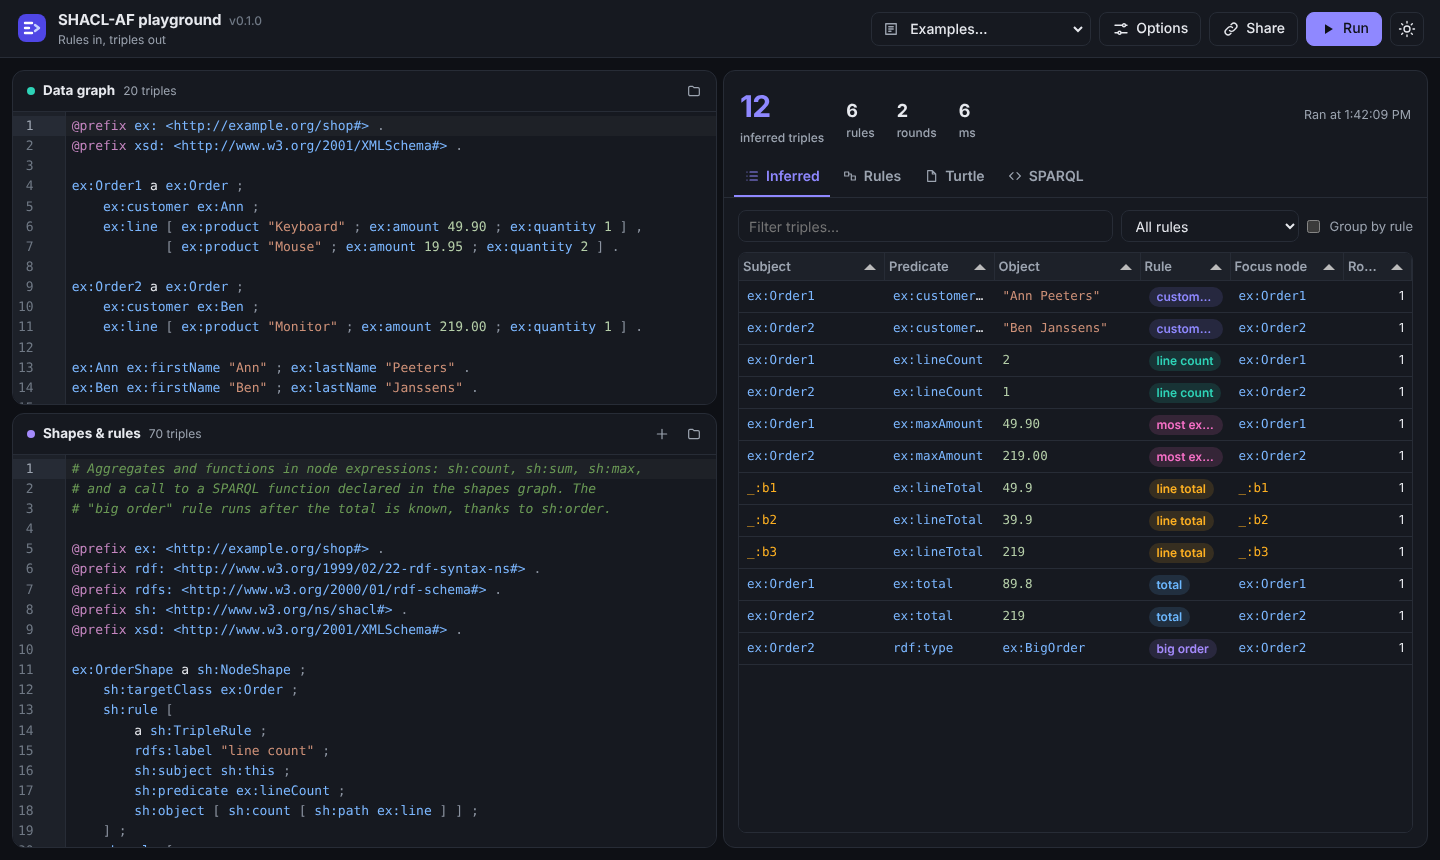
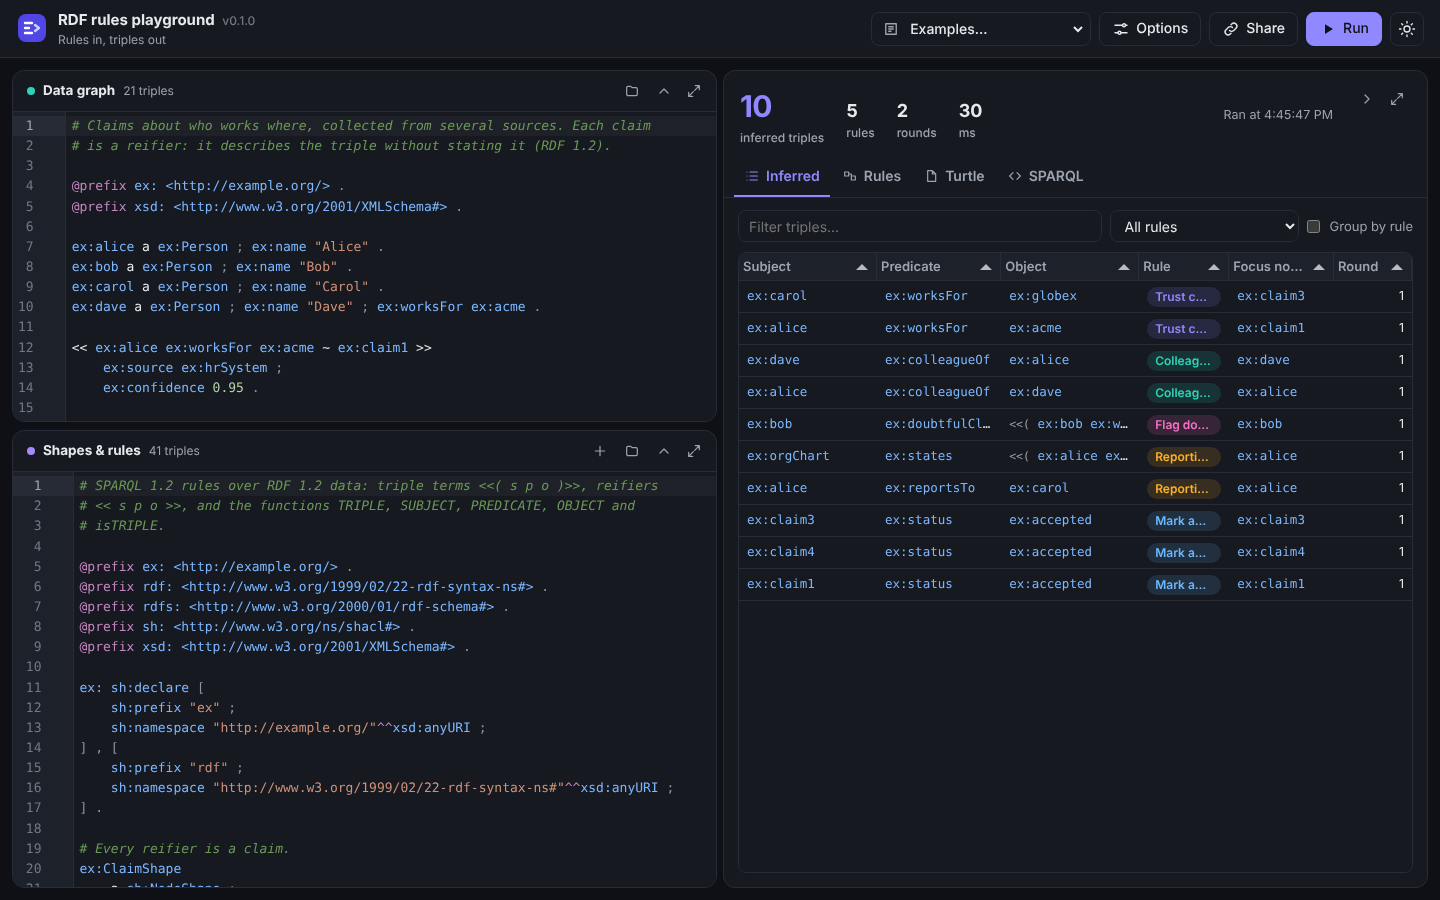
refactor: rename to rdf-rules-playground
Matches the repository name: crate, binary, Docker image, environment
variables (RDF_RULES_PLAYGROUND_*) and the shapes graph name
<urn:x-rdf-rules-playground:shapes-graph>. Refreshes the screenshots.

diff --git a/assets/app/index.html b/assets/app/index.html
@@ -4,7 +4,7 @@
     <meta charset="utf-8" />
     <meta name="viewport" content="width=device-width, initial-scale=1" />
     <meta name="color-scheme" content="light dark" />
-    <title>SHACL-AF playground</title>
+    <title>RDF rules playground</title>
     <link rel="icon" href="/assets/app/favicon.svg" type="image/svg+xml" />
     <link rel="stylesheet" href="/assets/vendor/tabulator/tabulator.min.css" />
     <link rel="stylesheet" href="/assets/vendor/matgui/matgui.min.css" />
@@ -15,7 +15,7 @@
       <div class="brand">
         <img class="logo" src="/assets/app/favicon.svg" alt="" />
         <div class="brand-text">
-          <span class="brand-name">SHACL-AF playground <span id="version" class="version"></span></span>
+          <span class="brand-name">RDF rules playground <span id="version" class="version"></span></span>
           <span class="brand-sub hide-mobile">Rules in, triples out</span>
         </div>
       </div>
@@ -194,7 +194,7 @@
         </div>
 
         <div class="tab-body hidden" id="tab-sparql">
-          <p class="hint">Query the data with everything inferred. The shapes graph is the named graph <code>&lt;urn:x-shacl-af-playground:shapes-graph&gt;</code>. Each run gets a fresh endpoint.</p>
+          <p class="hint">Query the data with everything inferred. The shapes graph is the named graph <code>&lt;urn:x-rdf-rules-playground:shapes-graph&gt;</code>. Each run gets a fresh endpoint.</p>
           <div id="matgui" class="matgui-host"></div>
         </div>
       </section>

diff --git a/assets/app/app.js b/assets/app/app.js
@@ -1,13 +1,13 @@
-// shacl-af-playground: the browser side. Two Turtle editors (data, and
+// rdf-rules-playground: the browser side. Two Turtle editors (data, and
 // shapes with rules), a run against /api/infer, and four views of the
 // result: inferred triples, rules, Turtle, and SPARQL through MatGUI.
 (function () {
   "use strict";
 
   const $ = (id) => document.getElementById(id);
-  const STORE_KEY = "shacl-af-playground";
-  const THEME_KEY = "shacl-af-playground-theme";
-  const LAYOUT_KEY = "shacl-af-playground-layout";
+  const STORE_KEY = "rdf-rules-playground";
+  const THEME_KEY = "rdf-rules-playground-theme";
+  const LAYOUT_KEY = "rdf-rules-playground-layout";
   const WELL_KNOWN = [
     ["rdf", "http://www.w3.org/1999/02/22-rdf-syntax-ns#"],
     ["rdfs", "http://www.w3.org/2000/01/rdf-schema#"],

diff --git a/assets/app/editor.js b/assets/app/editor.js
@@ -1,4 +1,4 @@
-// shacl-af-playground: Turtle editors on CodeMirror 6 (bundled as the
+// rdf-rules-playground: Turtle editors on CodeMirror 6 (bundled as the
 // global ShaclCodeMirror, see assets/vendor/codemirror/NOTICE.md).
 (function () {
   "use strict";

diff --git a/assets/app/styles.css b/assets/app/styles.css
@@ -1,4 +1,4 @@
-/* shacl-af-playground */
+/* rdf-rules-playground */
 
 :root {
   --bg: #f6f7f9;

diff --git a/src/cli.rs b/src/cli.rs
@@ -6,7 +6,7 @@ use std::path::PathBuf;
 
 #[derive(Debug, Parser)]
 #[command(
-    name = "shacl-af-playground",
+    name = "rdf-rules-playground",
     version,
     about = "Run SHACL Advanced Features rules (sh:TripleRule, sh:SPARQLRule) on RDF data",
     long_about = "Run SHACL Advanced Features rules (sh:TripleRule, sh:SPARQLRule) on RDF data.\n\n\
@@ -87,28 +87,28 @@ pub struct ServeArgs {
         long = "max-editor-triples",
         value_name = "N",
         default_value_t = 20_000,
-        env = "SHACL_AF_PLAYGROUND_MAX_EDITOR_TRIPLES"
+        env = "RDF_RULES_PLAYGROUND_MAX_EDITOR_TRIPLES"
     )]
     pub max_editor_triples: usize,
     /// Address to listen on.
-    #[arg(long, default_value = "127.0.0.1:0", env = "SHACL_AF_PLAYGROUND_BIND")]
+    #[arg(long, default_value = "127.0.0.1:0", env = "RDF_RULES_PLAYGROUND_BIND")]
     pub bind: String,
     /// Do not open the browser.
     #[arg(long = "no-open")]
     pub no_open: bool,
     /// Serve the playground as a public website: caps input size, run time
     /// and rounds per request, and never opens a browser.
-    #[arg(long, env = "SHACL_AF_PLAYGROUND_PUBLIC")]
+    #[arg(long, env = "RDF_RULES_PLAYGROUND_PUBLIC")]
     pub public: bool,
     /// In public mode: most bytes of Turtle per editor.
-    #[arg(long = "max-input-bytes", value_name = "BYTES", default_value_t = 2 * 1024 * 1024, env = "SHACL_AF_PLAYGROUND_MAX_INPUT_BYTES")]
+    #[arg(long = "max-input-bytes", value_name = "BYTES", default_value_t = 2 * 1024 * 1024, env = "RDF_RULES_PLAYGROUND_MAX_INPUT_BYTES")]
     pub max_input_bytes: usize,
     /// In public mode: most triples per editor, and most inferred triples.
     #[arg(
         long = "max-triples",
         value_name = "N",
         default_value_t = 50_000,
-        env = "SHACL_AF_PLAYGROUND_MAX_TRIPLES"
+        env = "RDF_RULES_PLAYGROUND_MAX_TRIPLES"
     )]
     pub max_triples: usize,
     /// In public mode: most seconds one run may take.
@@ -116,7 +116,7 @@ pub struct ServeArgs {
         long = "max-seconds",
         value_name = "S",
         default_value_t = 20,
-        env = "SHACL_AF_PLAYGROUND_MAX_SECONDS"
+        env = "RDF_RULES_PLAYGROUND_MAX_SECONDS"
     )]
     pub max_seconds: u64,
 }

diff --git a/src/main.rs b/src/main.rs
@@ -1,9 +1,9 @@
 use clap::Parser;
 use oxrdf::Graph;
-use shacl_af_playground::cli::{Cli, Command, InferArgs, OutputFormat};
-use shacl_af_playground::input::{load_files, merge_prefixes};
-use shacl_af_playground::rules::{self, Options};
-use shacl_af_playground::{output, web};
+use rdf_rules_playground::cli::{Cli, Command, InferArgs, OutputFormat};
+use rdf_rules_playground::input::{load_files, merge_prefixes};
+use rdf_rules_playground::rules::{self, Options};
+use rdf_rules_playground::{output, web};
 use std::process::ExitCode;
 
 fn main() -> ExitCode {
@@ -12,7 +12,7 @@ fn main() -> ExitCode {
         Some(Command::Infer(args)) => infer(args),
         Some(Command::Serve(args)) => web::serve(args),
         // No command: `serve` with its defaults, environment variables included.
-        None => match Cli::parse_from(["shacl-af-playground", "serve"]).command {
+        None => match Cli::parse_from(["rdf-rules-playground", "serve"]).command {
             Some(Command::Serve(args)) => web::serve(args),
             _ => unreachable!("parsed as serve"),
         },
@@ -20,7 +20,7 @@ fn main() -> ExitCode {
     match result {
         Ok(code) => code,
         Err(err) => {
-            eprintln!("shacl-af-playground: error: {err:#}");
+            eprintln!("rdf-rules-playground: error: {err:#}");
             ExitCode::from(2)
         }
     }

diff --git a/tests/web.rs b/tests/web.rs
@@ -1,6 +1,6 @@
 //! The playground's HTTP API, driven over a real socket.
 
-use shacl_af_playground::web::{AppState, Limits, api};
+use rdf_rules_playground::web::{AppState, Limits, api};
 use std::io::{Read, Write};
 use std::net::{SocketAddr, TcpStream};
 use std::time::Duration;
@@ -119,7 +119,7 @@ fn infers_and_serves_the_result() {
     assert!(body.contains("\"value\":\"4\""), "{body}");
 
     // ...including the shapes graph as a named graph
-    let ask = "ASK { GRAPH <urn:x-shacl-af-playground:shapes-graph> { ?s a <http://www.w3.org/ns/shacl#SPARQLRule> } }";
+    let ask = "ASK { GRAPH <urn:x-rdf-rules-playground:shapes-graph> { ?s a <http://www.w3.org/ns/shacl#SPARQLRule> } }";
     let (status, _, body) = request(
         addr,
         "POST",
@@ -172,7 +172,7 @@ fn serves_the_page_and_examples() {
     let addr = start(None);
     let (status, _, body) = request(addr, "GET", "/", &[], "");
     assert_eq!(status, 200);
-    assert!(body.contains("SHACL-AF playground"));
+    assert!(body.contains("RDF rules playground"));
     let (status, _, body) = request(addr, "GET", "/api/examples", &[], "");
     assert_eq!(status, 200);
     let examples: serde_json::Value = serde_json::from_str(&body).unwrap();

diff --git a/src/web/mod.rs b/src/web/mod.rs
@@ -275,7 +275,7 @@ fn startup_data(
     Ok((output::turtle(&g, &prefixes), None))
 }
 
-/// `shacl-af-playground serve`: start the server and block until ctrl-c.
+/// `rdf-rules-playground serve`: start the server and block until ctrl-c.
 pub fn serve(args: ServeArgs) -> Result<ExitCode> {
     let (data_text, big_data) = startup_data(&args.data, args.format, args.max_editor_triples)?;
     let shapes = args.shapes.as_deref().map(shapes_text).transpose()?;
@@ -317,7 +317,7 @@ pub fn serve(args: ServeArgs) -> Result<ExitCode> {
                 l.max_iterations
             );
         }
-        eprintln!("shacl-af-playground listening on {url}");
+        eprintln!("rdf-rules-playground listening on {url}");
         if !args.no_open
             && !args.public
             && let Err(e) = webbrowser::open(&url)

diff --git a/tests/rules.rs b/tests/rules.rs
@@ -1,6 +1,6 @@
 use oxrdf::{Graph, Literal, NamedNode, Term, Triple};
-use shacl_af_playground::input::parse_turtle;
-use shacl_af_playground::rules::{Options, Outcome, infer};
+use rdf_rules_playground::input::parse_turtle;
+use rdf_rules_playground::rules::{Options, Outcome, infer};
 
 fn load(text: &str) -> Graph {
     parse_turtle(text, None).expect("valid Turtle").0
@@ -179,7 +179,7 @@ fn sparql_12_rules_over_triple_terms() {
         &ex("status"),
         iri(&ex("accepted"))
     ));
-    let turtle = shacl_af_playground::output::turtle(
+    let turtle = rdf_rules_playground::output::turtle(
         &out.inferred.iter().map(|i| i.triple.clone()).collect(),
         &[("ex".into(), ex(""))],
     );

diff --git a/scripts/third_party_notices.py b/scripts/third_party_notices.py
@@ -99,7 +99,7 @@ def table(rows):
 def main():
     js = npm(sys.argv[1:])
     print("# Third-party notices\n")
-    print("shacl-af-playground is licensed under Apache-2.0 (see LICENSE). It includes")
+    print("rdf-rules-playground is licensed under Apache-2.0 (see LICENSE). It includes")
     print("the following third-party software, each under its own license. Where a")
     print("package offers a choice of licenses, it is used under any one of them. The")
     print("license texts are at the end of this file.\n")

diff --git a/src/rules/sparql.rs b/src/rules/sparql.rs
@@ -12,7 +12,7 @@ use std::collections::HashMap;
 
 /// The name `$shapesGraph` is bound to. The shapes are queryable as this
 /// named graph; the data graph is the default graph.
-pub const SHAPES_GRAPH: &str = "urn:x-shacl-af-playground:shapes-graph";
+pub const SHAPES_GRAPH: &str = "urn:x-rdf-rules-playground:shapes-graph";
 
 /// The data graph (default graph) plus the shapes graph (named graph),
 /// kept in sync with the working graph as rules add triples.

diff --git a/README.md b/README.md
@@ -1,4 +1,4 @@
-# shacl-af-playground
+# rdf-rules-playground
 
 Try [SHACL Advanced Features](https://www.w3.org/TR/shacl-af/) rules in your
 browser. Type or paste a data graph and a shapes graph with `sh:rule`, and see
@@ -72,8 +72,8 @@ From a release on GitHub (Linux, macOS, Windows), with Cargo, or as a Docker
 image:
 
 ```sh
-cargo install --git https://github.com/Matdata-eu/shacl-af-playground
-docker run --rm -p 8080:8080 ghcr.io/matdata-eu/shacl-af-playground
+cargo install --git https://github.com/Matdata-eu/rdf-rules-playground
+docker run --rm -p 8080:8080 ghcr.io/matdata-eu/rdf-rules-playground
 ```
 
 ## Usage
@@ -81,15 +81,15 @@ docker run --rm -p 8080:8080 ghcr.io/matdata-eu/shacl-af-playground
 ### The playground
 
 ```sh
-shacl-af-playground                     # opens the playground in your browser
-shacl-af-playground serve --data data.ttl --shapes rules.ttl   # with your files loaded
-shacl-af-playground serve --data big.nt.gz part2.ttl --shapes rules.ttl
+rdf-rules-playground                     # opens the playground in your browser
+rdf-rules-playground serve --data data.ttl --shapes rules.ttl   # with your files loaded
+rdf-rules-playground serve --data big.nt.gz part2.ttl --shapes rules.ttl
 ```
 
 `--data` takes one or more files in any syntax the command line reads (see
 `--format` below). Small data opens in the data editor. Data with more triples
 than `--max-editor-triples N` (default 20 000, or
-`SHACL_AF_PLAYGROUND_MAX_EDITOR_TRIPLES`) is loaded once and kept on the
+`RDF_RULES_PLAYGROUND_MAX_EDITOR_TRIPLES`) is loaded once and kept on the
 server: the data card then shows the file names and a MatGUI query view over
 `/api/data/{id}/sparql`, and every run uses that graph. **Use the editor**
 switches back to typing data, and **Use loaded data** returns to the files.
@@ -119,14 +119,14 @@ on. Under **Options**:
 - **Read rules from the data too**: for files that keep data and shapes together.
 
 The SPARQL tab queries the data graph with everything inferred. The shapes
-graph is the named graph `<urn:x-shacl-af-playground:shapes-graph>`. Each run
+graph is the named graph `<urn:x-rdf-rules-playground:shapes-graph>`. Each run
 has its own endpoint at `/api/runs/{id}/sparql`, so it also works from other
 SPARQL clients while the playground keeps that run (the last 32 runs).
 
 ### From the command line
 
 ```sh
-shacl-af-playground infer --data data.ttl --shapes rules.ttl
+rdf-rules-playground infer --data data.ttl --shapes rules.ttl
 ```
 
 prints the inferred triples as Turtle. Without `--shapes`, the rules are read
@@ -146,7 +146,7 @@ from the data graph.
 | `-q, --quiet` | Print only errors on standard error. |
 
 ```console
-$ shacl-af-playground infer -d examples/rectangles/data.ttl -s examples/rectangles/rules.ttl --explain
+$ rdf-rules-playground infer -d examples/rectangles/data.ttl -s examples/rectangles/rules.ttl --explain
 @prefix ex: <http://example.org/shapes#> .
 
 ex:NonSquareRectangle
@@ -166,17 +166,17 @@ run, and 2 when the input could not be read.
 
 ### Hosting it
 
-`serve --public` (or `SHACL_AF_PLAYGROUND_PUBLIC=true`, as in the Docker image)
+`serve --public` (or `RDF_RULES_PLAYGROUND_PUBLIC=true`, as in the Docker image)
 runs the playground as a public website: it never opens a browser and caps
 every request.
 
 | Flag | Environment variable | Default |
 | --- | --- | --- |
-| `--bind ADDR` | `SHACL_AF_PLAYGROUND_BIND` | `127.0.0.1:0` (Docker: `0.0.0.0:8080`) |
-| `--public` | `SHACL_AF_PLAYGROUND_PUBLIC` | off (Docker: on) |
-| `--max-input-bytes BYTES` | `SHACL_AF_PLAYGROUND_MAX_INPUT_BYTES` | 2 MB per editor |
-| `--max-triples N` | `SHACL_AF_PLAYGROUND_MAX_TRIPLES` | 50 000 per editor, and inferred |
-| `--max-seconds S` | `SHACL_AF_PLAYGROUND_MAX_SECONDS` | 20 per run or query |
+| `--bind ADDR` | `RDF_RULES_PLAYGROUND_BIND` | `127.0.0.1:0` (Docker: `0.0.0.0:8080`) |
+| `--public` | `RDF_RULES_PLAYGROUND_PUBLIC` | off (Docker: on) |
+| `--max-input-bytes BYTES` | `RDF_RULES_PLAYGROUND_MAX_INPUT_BYTES` | 2 MB per editor |
+| `--max-triples N` | `RDF_RULES_PLAYGROUND_MAX_TRIPLES` | 50 000 per editor, and inferred |
+| `--max-seconds S` | `RDF_RULES_PLAYGROUND_MAX_SECONDS` | 20 per run or query |
 
 Public runs are also limited to 50 rounds, and to as many at once as the
 machine has cores.
